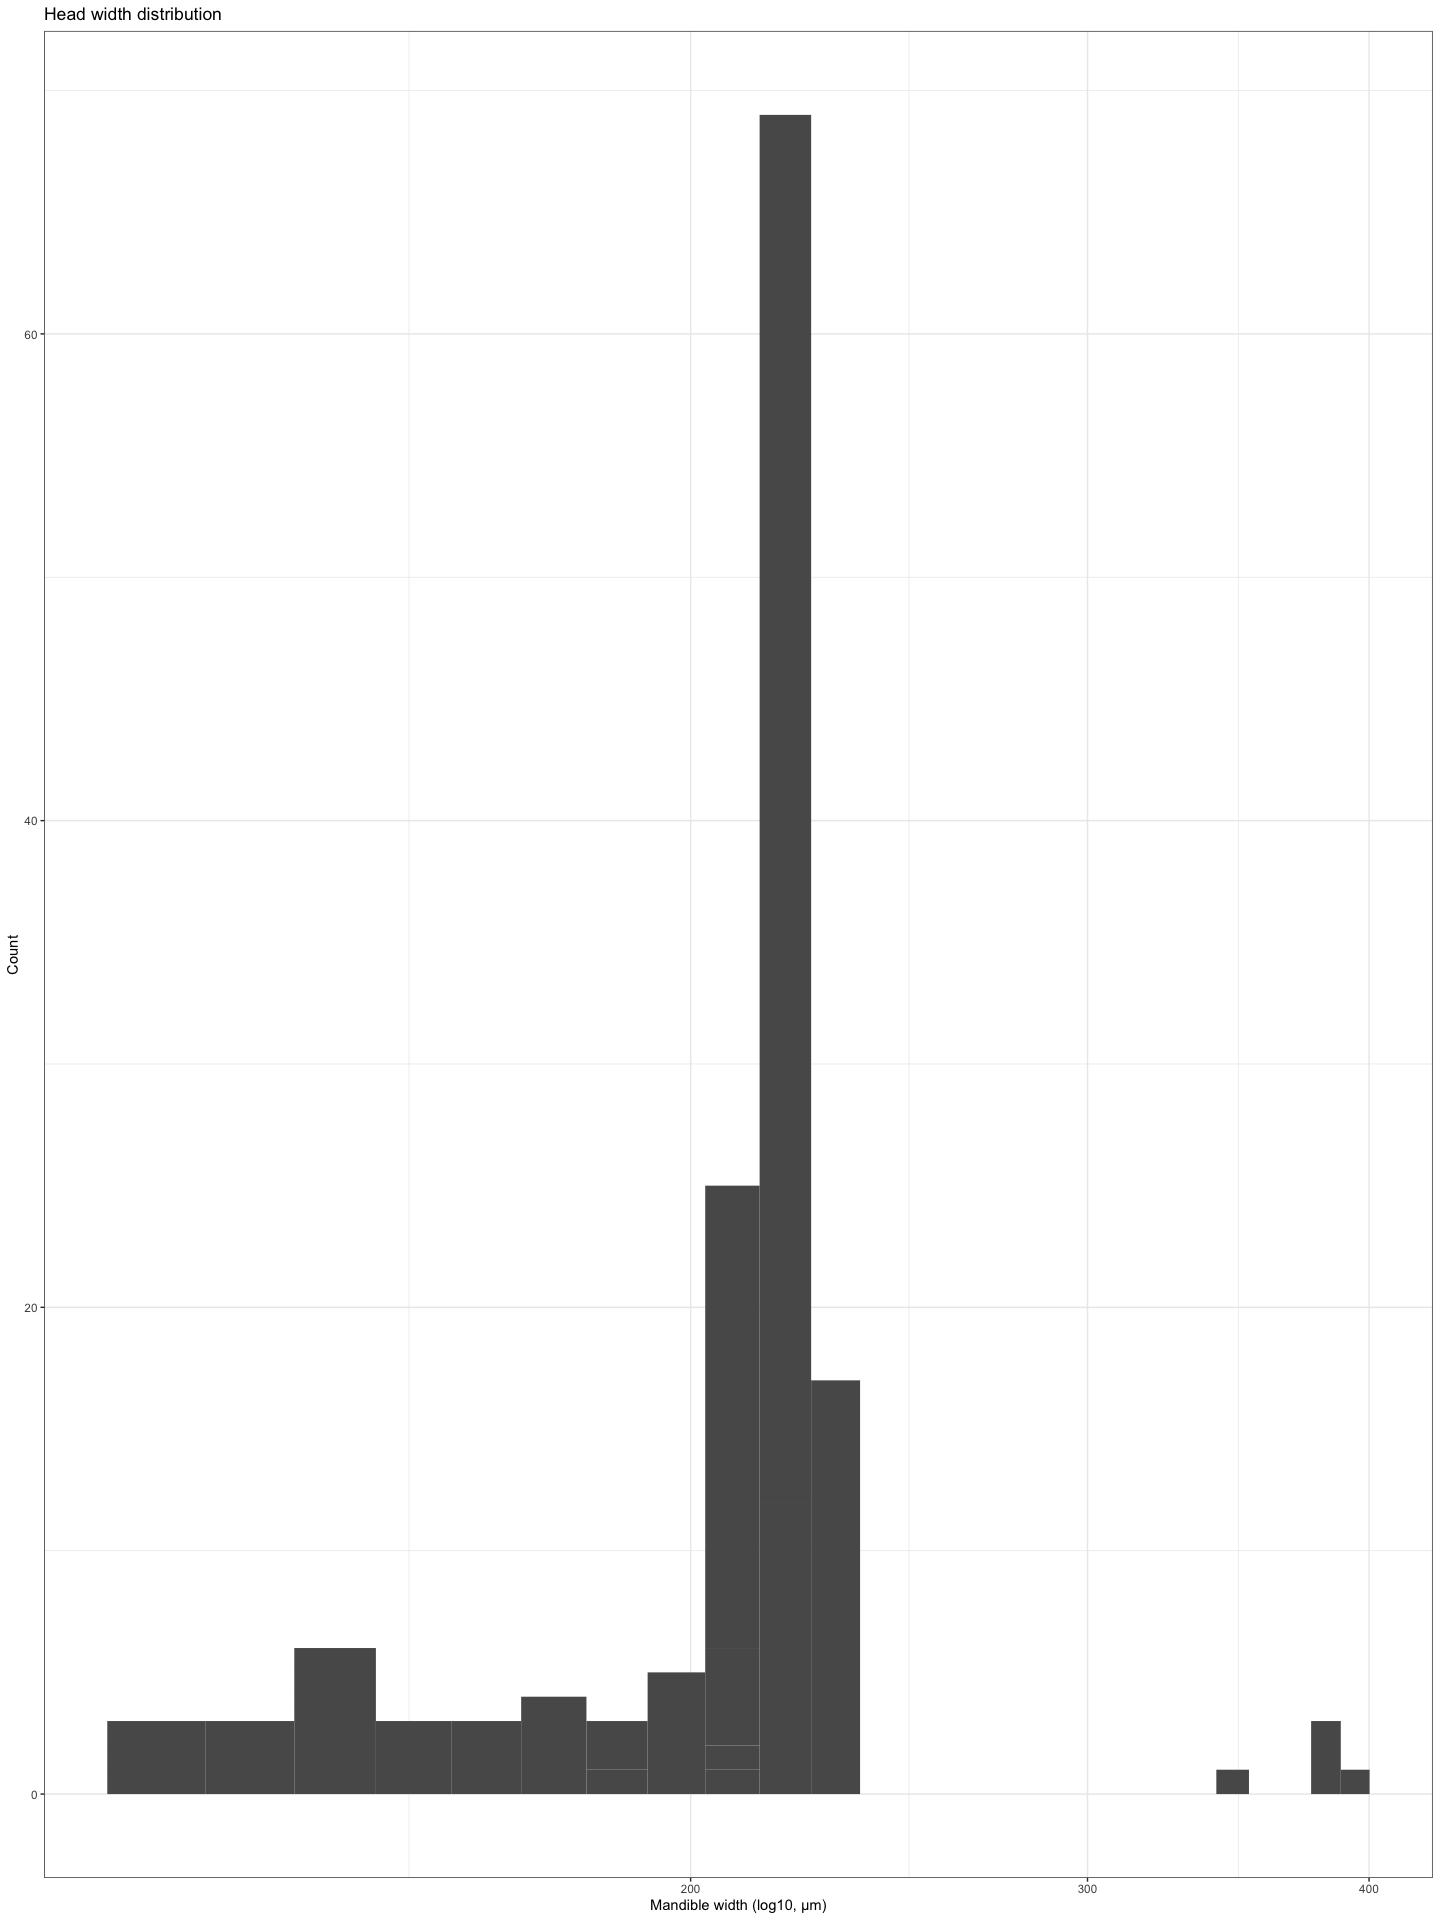
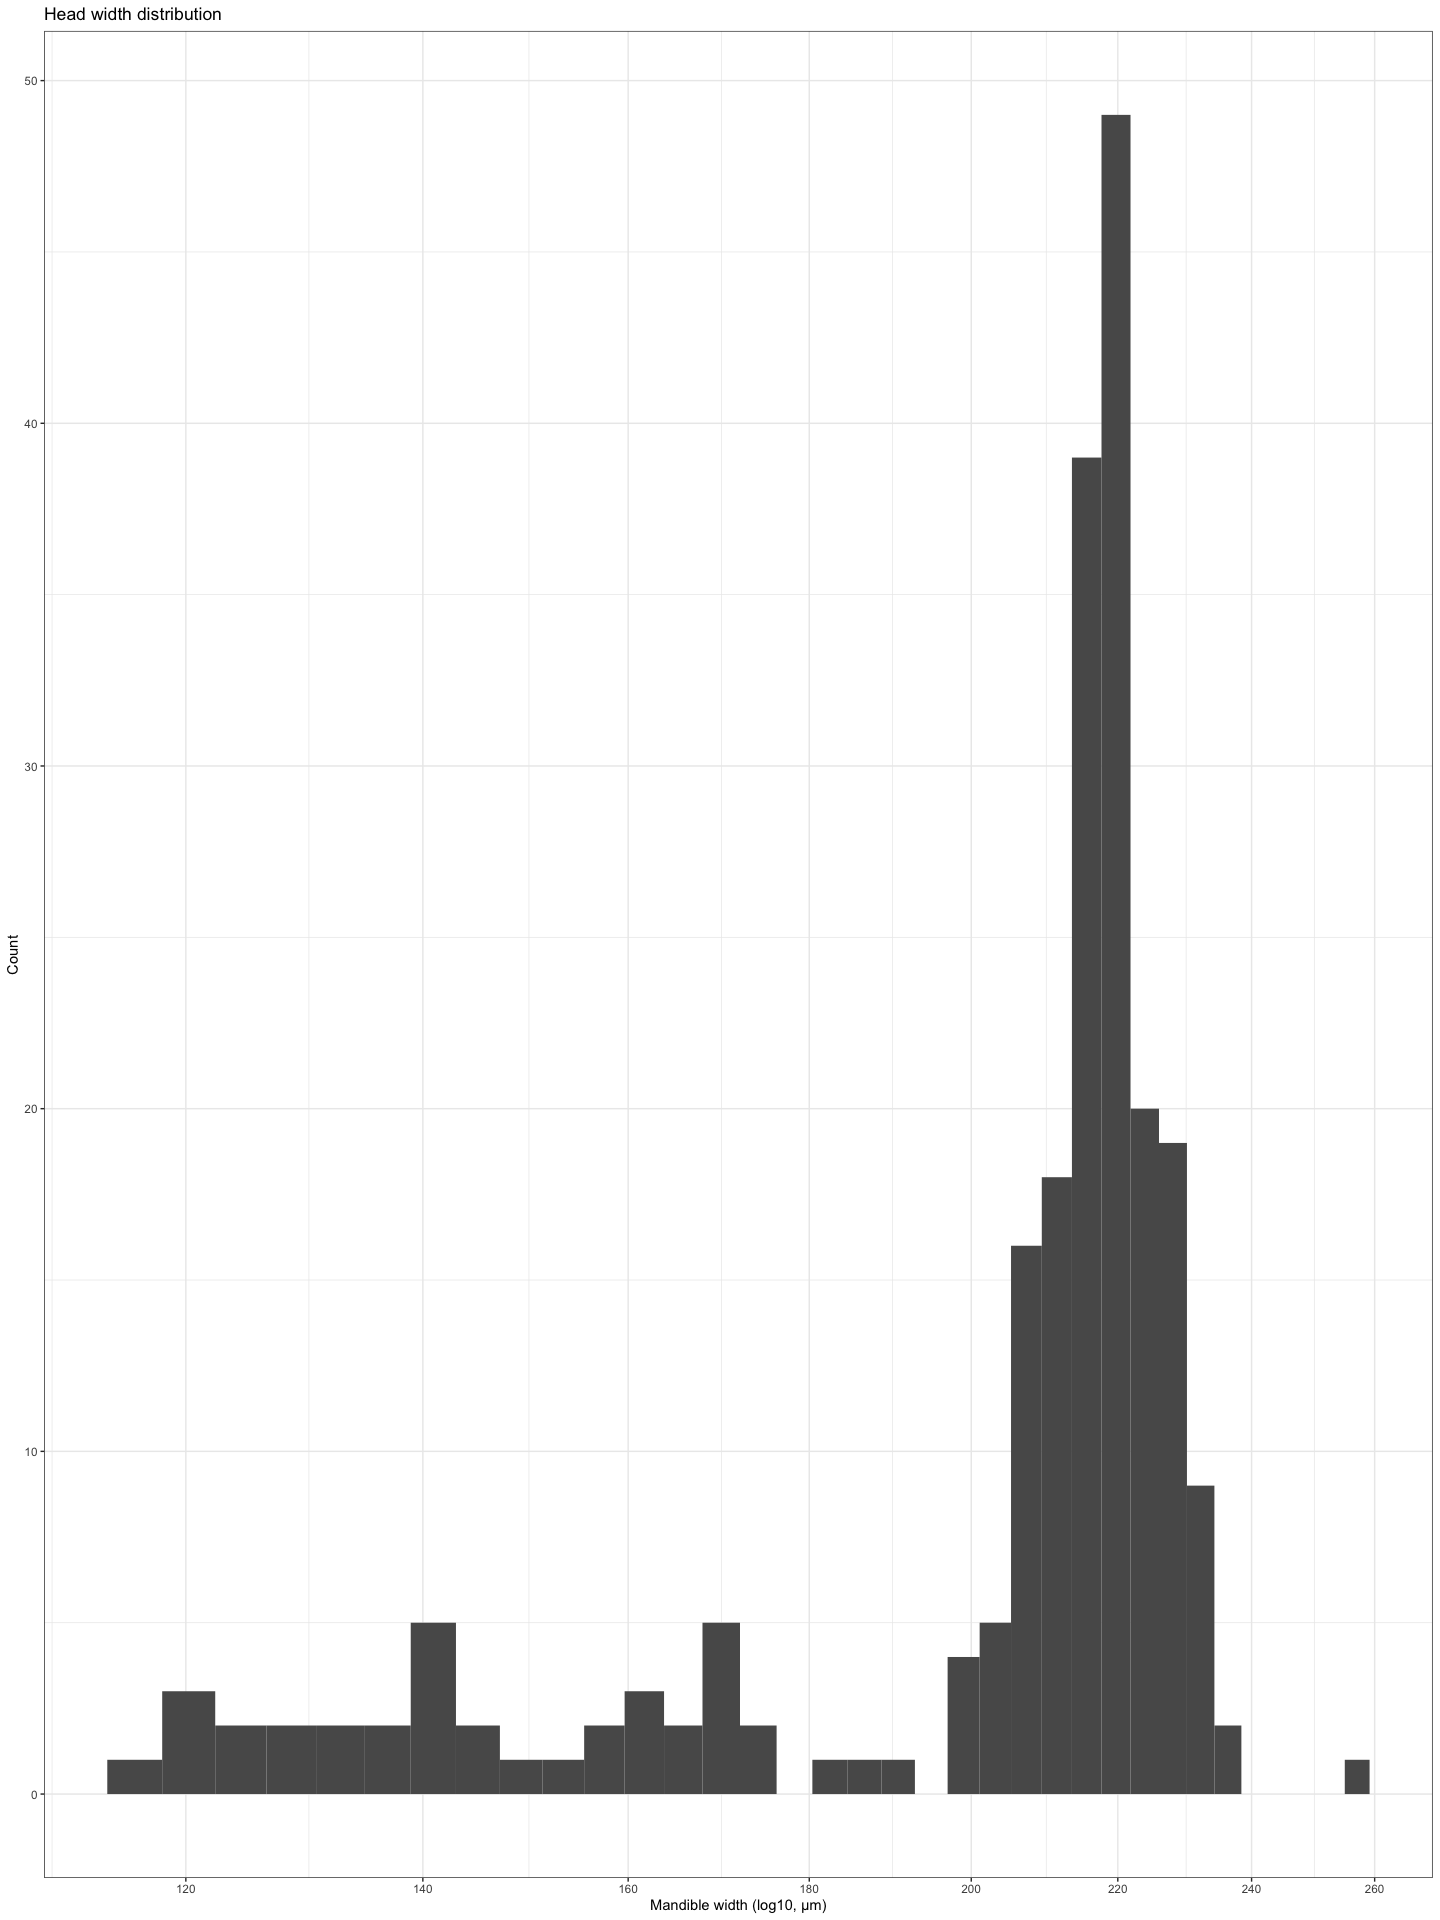
Updating data.

Changed region(s): [[0.1875, 0.0312, 0.875, 0.9375], [0.0625, 0.875, 0.1562, 0.9375], [0.9062, 0.875, 0.9688, 0.9375]]

diff --git a/README.md b/README.md
@@ -5,21 +5,25 @@ Megan Barkdull
 ## Mandible width to body length:
 
 This plot present larval mandible width vs. body length, with key
-benchmarks noted:
+benchmarks
+    noted:
 
     ## [1] "Soldier pupa mean body length is 4415.2576 uM"
 
-    ## [1] "Worker pupa mean body length is 3651.85539534884 uM"
+    ## [1] "The halfpoint between soldier and worker body length is 4010.00369344262 uM"
 
-    ## [1] "Queen pupa mean body length is 6338.89 uM"
+    ## [1] "Worker pupa mean body length is 3604.74978688525 uM"
+
+    ## [1] "Queen pupa mean body length is 6393.8965 uM"
 
     ## [1] "Male pupa mean body length is 4647.183 uM"
 
-    ## [1] "The mean prepupal head width is 217.2765625 uM"
+    ## [1] "The mean prepupal head width is 217.772821428571 uM"
 
 ![](README_files/figure-gfm/scatterplot-1.png)<!-- -->
 
 Note that three larvae from MEBLHPR4831 are currently developing into
-queens (I think) and have been measured on 9/27, 10/02, and 10/13.
+queens, and were measured on 9/27, 10/02, 10/13, and 10/25, by which
+point one of them had pupated and I froze all three.
 
 ![](README_files/figure-gfm/barplot-1.png)<!-- -->
